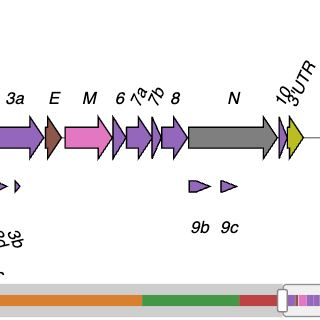
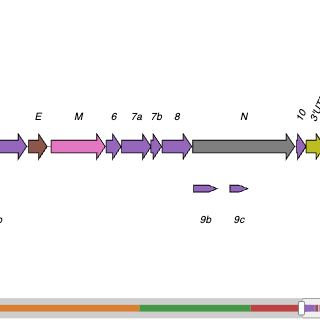
Version 0.3.5

diff --git a/src/lib/chart.js b/src/lib/chart.js
@@ -10,7 +10,7 @@ import { chartToPNG, chartToSVG, createSaveIcon, downloadBlob } from "./export.j
 import { colorBarSettings, getClusterLinks, makeColorBar, makeLinks } from "./links.js";
 import { computeSize, mergeOptions, themeTextScale, toRows, warnOnce } from "./util.js";
 
-var version = "0.3.4";
+var version = "0.3.5";
 // Shared by all chart instances, including ones removed and recreated.
 var renderSequence = 0;
 // Charts on elements without an id get one of their own for their parts' ids

diff --git a/README.md b/README.md
@@ -193,7 +193,7 @@ Set `PORT` to use a port other than 4849.
 
 1. Bump `version` in `package.json` and `src/lib/chart.js` (`npm run check`
    compares them).
-2. Commit, then tag and push: `git tag v0.3.4 && git push origin main v0.3.4`.
+2. Commit, then tag and push: `git tag v0.3.5 && git push origin main v0.3.5`.
 
 The publish workflow tests and builds, publishes to npm with provenance,
 and attaches `dist/` to a GitHub release.
@@ -205,7 +205,7 @@ repo and shipped inside the package, so users never download JavaScript
 separately. From the R repo, a maintainer pulls a release with:
 
 ```sh
-Rscript dev/update_js.R 0.3.4
+Rscript dev/update_js.R 0.3.5
 ```
 
 It downloads `geneviewer.core.js`, `geneviewer.css`, `themes.json`, the
